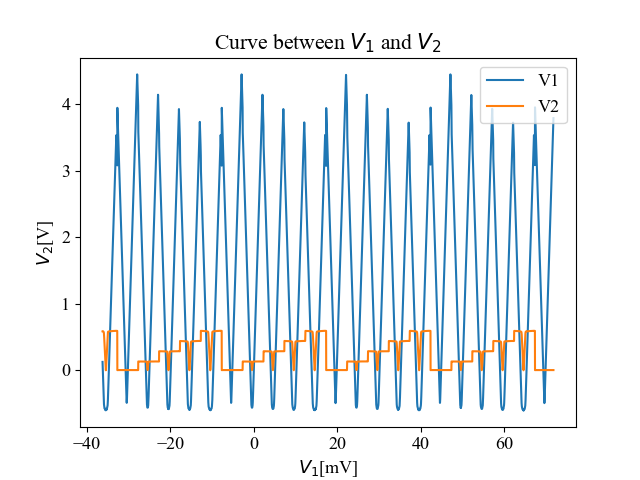
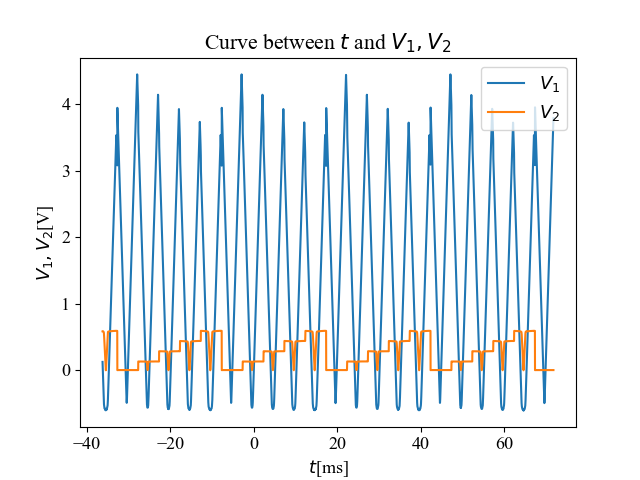
multi_label fixed

diff --git a/paper/example.py b/paper/example.py
@@ -26,4 +26,4 @@ data = csv_data(data_path)
 Plot(data['V1'], data['V2'], 'V', 'V', '$V_1$', '$V_2$', 'example1', save_path, True, 'jpg')
 
 # multi plot
-Plot([data['time'], data['time']] , [data['V1'], data['V2']], 'V', 'V', '$V_1$', '$V_2$', 'example2', save_path, False, 'png', labels = ('V1', 'V2'))
+Plot([data['time'], data['time']] , [data['V1'], data['V2']], 's', 'V', '$t$', '$V_{1}, V_{2}$', 'example2', save_path, False, 'png', labels = ('$V_{1}$', '$V_{2}$'))
